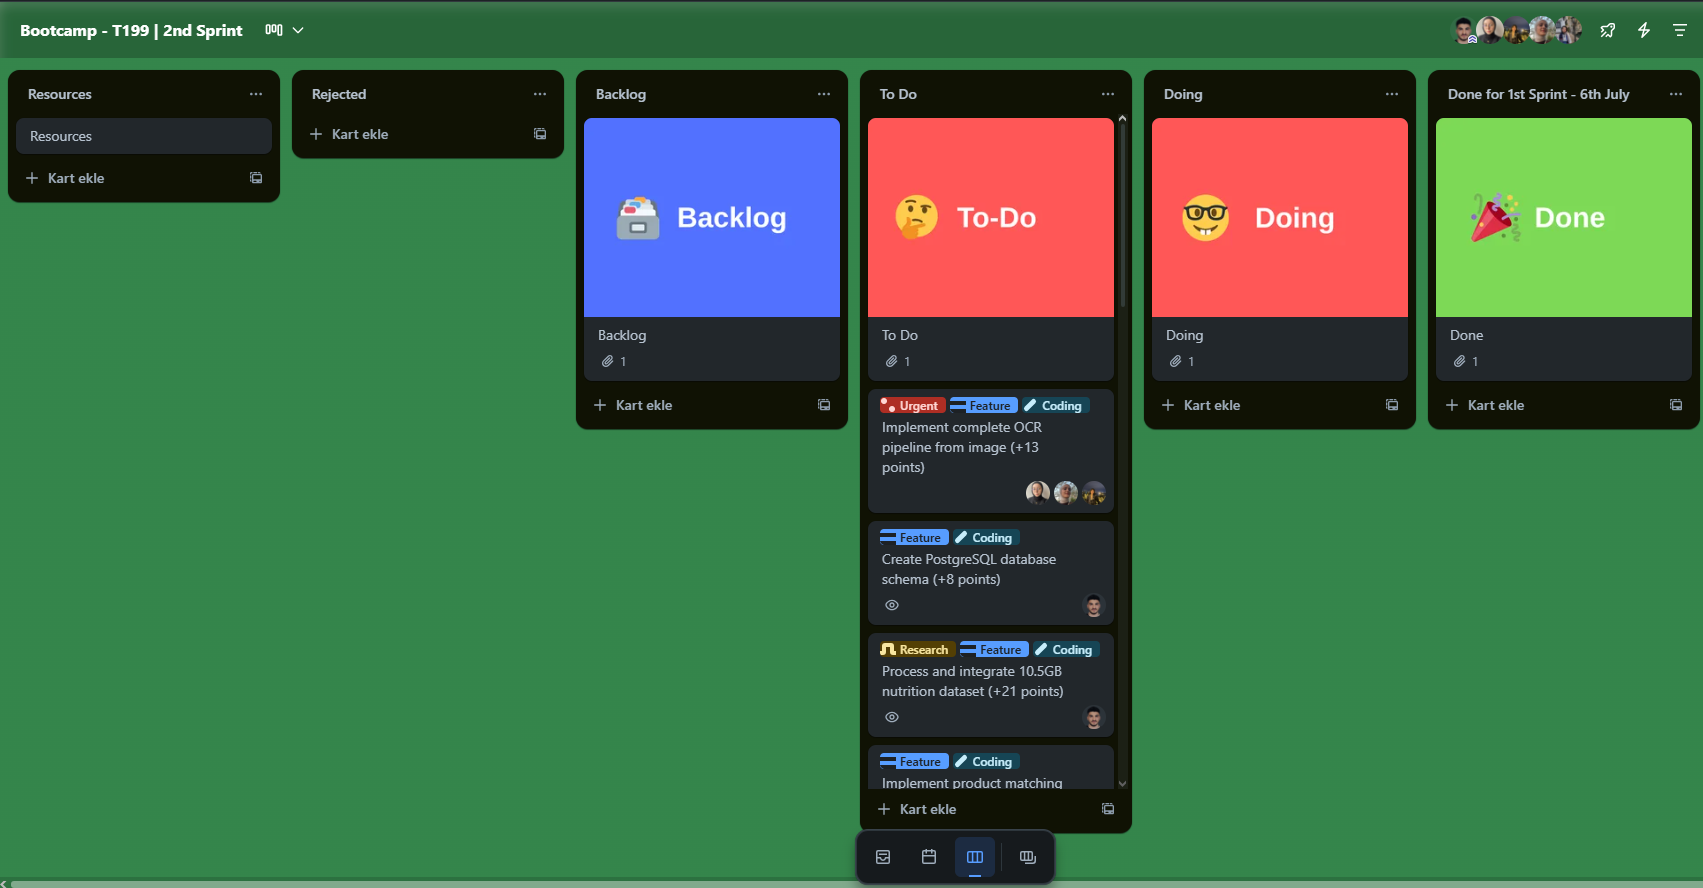
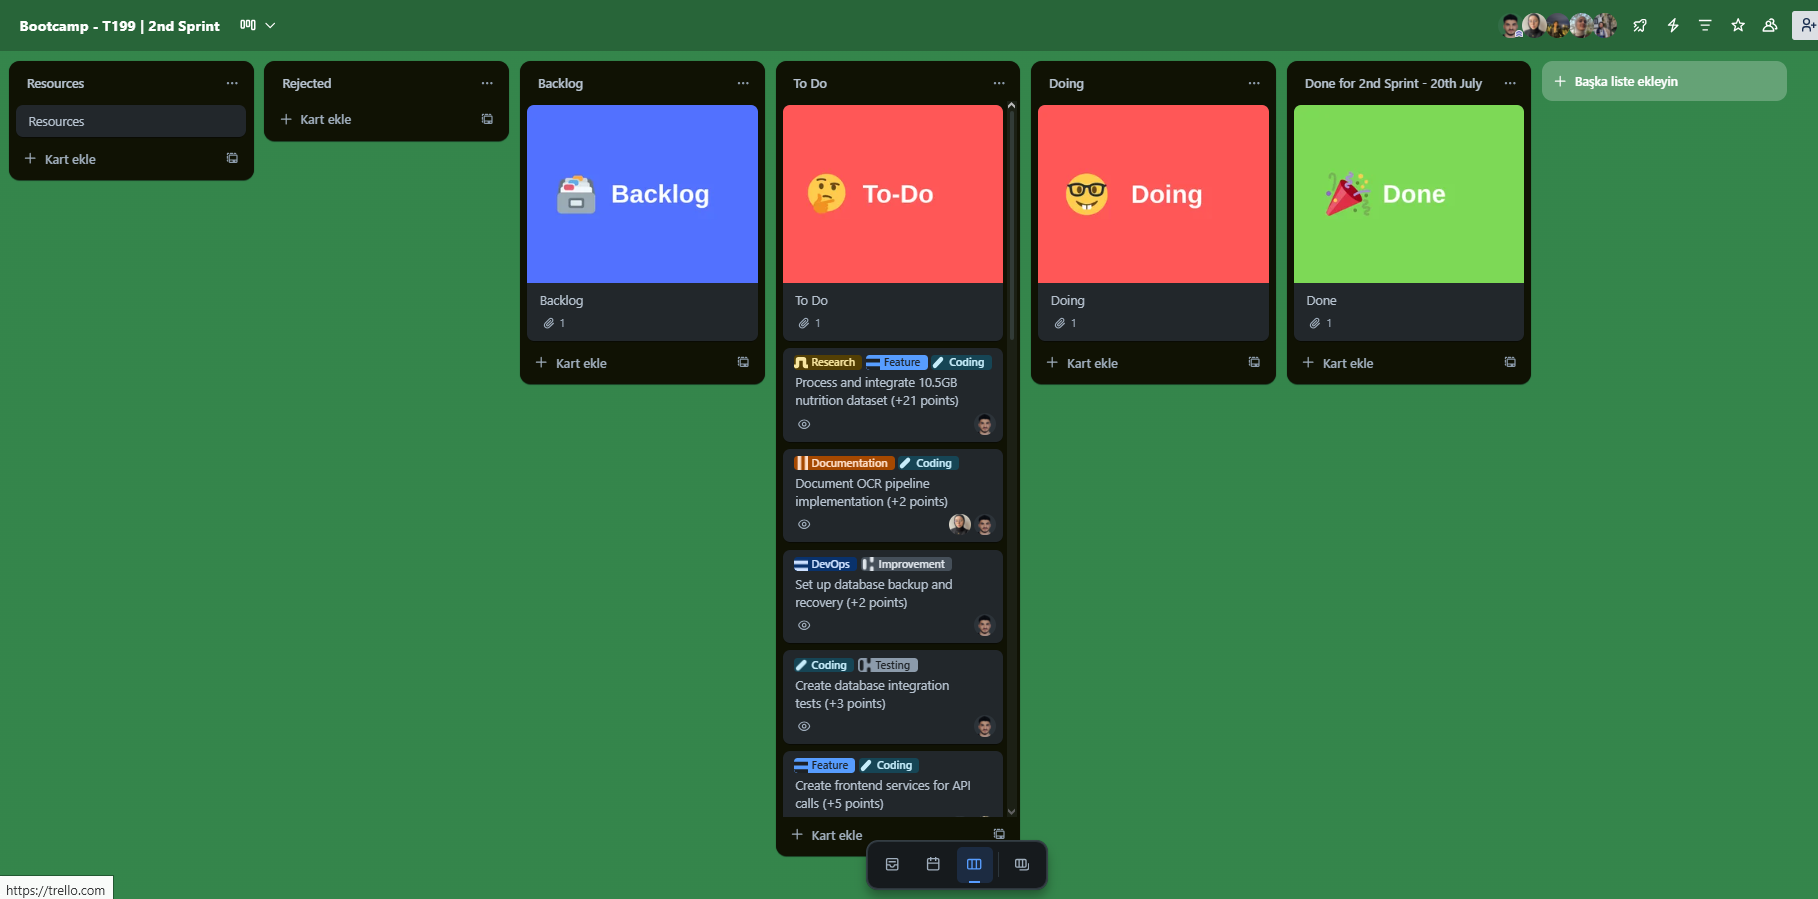
sprintTwo report is added.

diff --git a/README.md b/README.md
@@ -586,20 +586,20 @@ Sprint 1 has been **successfully completed** with all 43 planned points delivere
 
 ### 📋 General Board Tasks (Sprint 2)
 
-| Task | Tags | Est. Points | Priority |
-|------|------|-------------|----------|
-| Implement advanced OCR pipeline with preprocessing | #Coding #Feature #Urgent | 13 | High |
-| Create SQL database schema design | #Coding #Feature | 8 | High |
-| Integrate 10.5GB nutrition dataset processing | #Coding #Research #Feature | 21 | High |
-| Set up Google Authentication system | #Coding #Feature | 5 | Medium |
-| Design database models for user profiles | #Coding #Feature | 5 | Medium |
-| Create nutrition analysis API endpoints | #Coding #Feature | 8 | Medium |
-| Implement product matching algorithm in the OCR | #Coding #Feature | 13 | High |
-| Set up database migration system | #Coding #DevOps | 3 | Medium |
-| Create data validation and sanitization | #Coding #Testing | 5 | Medium |
-| Implement error handling for OCR pipeline | #Coding #Improvement | 3 | Low |
-| Design API documentation structure | #Documentation #Feature | 3 | Low |
-| Create automated testing for database operations | #Testing #Coding | 5 | Medium |
+| Task | Tags | Est. Points | Priority | Status |
+|------|------|-------------|----------|---------|
+| Implement advanced OCR pipeline with preprocessing | #Coding #Feature #Urgent | 13 | High | ❌ Not Completed |
+| Create SQL database schema design | #Coding #Feature | 8 | High | ✅ Completed |
+| Integrate 10.5GB nutrition dataset processing | #Coding #Research #Feature | 21 | High | ✅ Completed |
+| Set up Google Authentication system | #Coding #Feature | 5 | Medium | ❌ Not Completed |
+| Design database models for user profiles | #Coding #Feature | 5 | Medium | ✅ Completed |
+| Create nutrition analysis API endpoints | #Coding #Feature | 8 | Medium | ✅ Completed |
+| Implement product matching algorithm in the OCR | #Coding #Feature | 13 | High | ❌ Not Completed |
+| Set up database migration system | #Coding #DevOps | 3 | Medium | ✅ Completed |
+| Create data validation and sanitization | #Coding #Testing | 5 | Medium | ✅ Completed |
+| Implement error handling for OCR pipeline | #Coding #Improvement | 3 | Low | ❌ Not Completed |
+| Design API documentation structure | #Documentation #Feature | 3 | Low | ✅ Completed |
+| Create automated testing for database operations | #Testing #Coding | 5 | Medium | ✅ Completed |
 
 **Total General Board Points**: 92 Points
 
@@ -610,47 +610,47 @@ Sprint 1 has been **successfully completed** with all 43 planned points delivere
 
 #### 🔥 High Priority Tasks (Week 1)
 
-| Task | Tags | Est. Points | Details |
-|------|------|-------------|---------|
-| Implement complete OCR pipeline from image | #Coding #Feature #Urgent | 13 | Full implementation of the OCR pipeline shown in the image with preprocessing, grayscale conversion, denoising, and thresholding |
-| Create PostgreSQL database schema | #Coding #Feature | 8 | Design and implement all necessary tables for users, products, nutrition data, and analysis results |
-| Process and integrate 10.5GB nutrition dataset | #Coding #Research #Feature | 21 | Parse, clean, and integrate the massive nutrition dataset for product matching |
-| Implement product matching algorithm | #Coding #Feature | 8 | Create intelligent matching system to identify products from OCR text against database |
+| Task | Tags | Est. Points | Details | Status |
+|------|------|-------------|---------|---------|
+| Implement complete OCR pipeline from image | #Coding #Feature #Urgent | 13 | Full implementation of the OCR pipeline shown in the image with preprocessing, grayscale conversion, denoising, and thresholding | ❌ Not Completed |
+| Create PostgreSQL database schema | #Coding #Feature | 8 | Design and implement all necessary tables for users, products, nutrition data, and analysis results | ✅ Completed |
+| Process and integrate 10.5GB nutrition dataset | #Coding #Research #Feature | 21 | Parse, clean, and integrate the massive nutrition dataset for product matching | ✅ Completed |
+| Implement product matching algorithm | #Coding #Feature | 8 | Create intelligent matching system to identify products from OCR text against database | ❌ Not Completed |
 
 #### 🔧 Medium Priority Tasks (Week 2)
 
-| Task | Tags | Est. Points | Details |
-|------|------|-------------|---------|
-| Create user profile SQL models | #Coding #Feature | 5 | Design user, health profile, allergies, and dietary preferences models |
-| Implement Google OAuth integration | #Coding #Feature | 5 | Set up secure Google login system with proper token management |
-| Build nutrition analysis services | #Coding #Feature | 8 | Create backend services for nutritional analysis, scoring, and recommendations |
-| Create API controllers for OCR pipeline | #Coding #Feature | 5 | Implement Flask controllers to handle OCR requests and responses |
-| Implement database connection management | #Coding #DevOps | 3 | Set up SQLAlchemy connections, pooling, and transaction management |
-| Create frontend services for API calls | #Coding #Feature | 5 | Implement frontend service layer to communicate with backend APIs |
+| Task | Tags | Est. Points | Details | Status |
+|------|------|-------------|---------|---------|
+| Create user profile SQL models | #Coding #Feature | 5 | Design user, health profile, allergies, and dietary preferences models | ✅ Completed |
+| Implement Google OAuth integration | #Coding #Feature | 5 | Set up secure Google login system with proper token management | ❌ Not Completed |
+| Build nutrition analysis services | #Coding #Feature | 8 | Create backend services for nutritional analysis, scoring, and recommendations | ❌ Not Completed |
+| Create API controllers for OCR pipeline | #Coding #Feature | 5 | Implement Flask controllers to handle OCR requests and responses | ❌ Not Completed |
+| Implement database connection management | #Coding #DevOps | 3 | Set up SQLAlchemy connections, pooling, and transaction management | ✅ Completed |
+| Create frontend services for API calls | #Coding #Feature | 5 | Implement frontend service layer to communicate with backend APIs | ✅ Completed |
 
 #### 🎨 UI/UX Tasks
 
-| Task | Tags | Est. Points | Details |
-|------|------|-------------|---------|
-| Design product analysis result pages | #UI/UX #Feature | 5 | Create responsive pages to display nutritional analysis results |
-| Implement user profile management UI | #UI/UX #Feature | 3 | Design and implement user profile creation and editing interfaces |
-| Create nutrition dashboard wireframes | #UI/UX #Feature | 2 | Design dashboard layouts for nutrition tracking and progress |
+| Task | Tags | Est. Points | Details | Status |
+|------|------|-------------|---------|---------|
+| Design product analysis result pages | #UI/UX #Feature | 5 | Create responsive pages to display nutritional analysis results | ✅ Completed |
+| Implement user profile management UI | #UI/UX #Feature | 3 | Design and implement user profile creation and editing interfaces | ✅ Completed |
+| Create nutrition dashboard wireframes | #UI/UX #Feature | 2 | Design dashboard layouts for nutrition tracking and progress | ✅ Completed |
 
 #### 🧪 Testing & Quality Assurance
 
-| Task | Tags | Est. Points | Details |
-|------|------|-------------|---------|
-| Test OCR pipeline with various product types | #Testing #Coding | 5 | Test pipeline with different product categories and lighting conditions |
-| Create database integration tests | #Testing #Coding | 3 | Implement comprehensive tests for all database operations |
-| Validate nutrition data accuracy | #Testing #Review | 2 | Verify nutritional calculations and scoring algorithms |
+| Task | Tags | Est. Points | Details | Status |
+|------|------|-------------|---------|---------|
+| Test OCR pipeline with various product types | #Testing #Coding | 5 | Test pipeline with different product categories and lighting conditions | ❌ Not Completed |
+| Create database integration tests | #Testing #Coding | 3 | Implement comprehensive tests for all database operations | ✅ Completed |
+| Validate nutrition data accuracy | #Testing #Review | 2 | Verify nutritional calculations and scoring algorithms | ❌ Not Completed |
 
 #### 📚 Documentation & DevOps
 
-| Task | Tags | Est. Points | Details |
-|------|------|-------------|---------|
-| Document OCR pipeline implementation | #Documentation #Coding | 2 | Create detailed documentation for the OCR system |
-| Set up database backup and recovery | #DevOps #Improvement | 2 | Implement automated backup system for production database |
-| Create API endpoint documentation | #Documentation #Feature | 1 | Document all API endpoints with examples and parameters |
+| Task | Tags | Est. Points | Details | Status |
+|------|------|-------------|---------|---------|
+| Document OCR pipeline implementation | #Documentation #Coding | 2 | Create detailed documentation for the OCR system | ✅ Completed |
+| Set up database backup and recovery | #DevOps #Improvement | 2 | Implement automated backup system for production database | ✅ Completed |
+| Create API endpoint documentation | #Documentation #Feature | 1 | Document all API endpoints with examples and parameters | ✅ Completed |
 
 ### 🎯 Sprint 2 Point Breakdown
 
@@ -667,47 +667,198 @@ Sprint 1 has been **successfully completed** with all 43 planned points delivere
 <details>
   <summary><h1>Sprint 2</h1></summary>
 
-## Sprint 2 - Database Integration and AI Module
+## Sprint 2 - Database Integration and AI Module ⚠ PARTIALLY COMPLETED
 **Sprint Dates**: July 7 - July 20, 2025  
-**Team Meeting with Instructors**: July 7, 2025 20:00  
-**Sprint Report Deadline**: July 20, 2025 23:59  
-**Sprint Goal**: "Database Integration and AI-Powered Analysis System"
+**Team Meeting with Instructors**: July 7, 2025 20:00 ✅  
+**Sprint Report Deadline**: July 20, 2025 23:59 ✅  
+**Sprint Goal**: "Database Integration and AI-Powered Analysis System" ⚠
+
+### 🎯 Sprint 2 Summary
+Sprint 2 was **partially completed** with 34 out of 55 planned points delivered. The team achieved a 62% completion rate, successfully implementing core database infrastructure and user interface components, while facing challenges with advanced OCR features and authentication systems.
+
+### 📊 Sprint 2 Metrics
+- **Total Points Planned**: 55
+- **Total Points Completed**: 34 (62%)
+- **Tasks Completed**: 18/29
+- **Sprint Duration**: 14 days
+- **Team Velocity**: 2.43 points/day
+- **Major Success Areas**: Database integration (100%), UI/UX development (100%)
+- **Challenge Areas**: OCR pipeline enhancements, authentication systems
 
 <details>
-  <summary><h3>Sprint 2 - Application Screenshots</h3></summary>
+  <summary><h3>🖼 Sprint 2 - Application Screenshots</h3></summary>
+  
   <table style="width: 100%;">
     <tr>
-      <td colspan="4" style="text-align: center;"><h4>Nutrition Analysis Pages</h4></td>
+      <td colspan="3" style="text-align: center;"><h4>🗄 Database Integration & Data Management</h4></td>
     </tr>
     <tr>
-      <td style="width: 25%;"><img src="BootcampFiles/sprintTwo/screenshots/analysis_result.png" style="max-width: 100%; height: auto;"></td>
-      <td style="width: 25%;"><img src="BootcampFiles/sprintTwo/screenshots/nutrition_details.png" style="max-width: 100%; height: auto;"></td>
-      <td style="width: 25%;"><img src="BootcampFiles/sprintTwo/screenshots/recommendations.png" style="max-width: 100%; height: auto;"></td>
+      <td style="width: 33%;"><img src="BootcampFiles/sprintTwo/screenshots/PostgreSQL_tables.png" style="max-width: 100%; height: auto;"><br><center><i>PostgreSQL Database Tables</i></center></td>
+      <td style="width: 33%;"><img src="BootcampFiles/sprintTwo/screenshots/creating_tables_command_sql.png" style="max-width: 100%; height: auto;"><br><center><i>SQL Table Creation Commands</i></center></td>
+      <td style="width: 33%;"><img src="BootcampFiles/sprintTwo/screenshots/tables_backend_python_model_files.png" style="max-width: 100%; height: auto;"><br><center><i>Backend Python Model Files</i></center></td>
     </tr>
     <tr>
-      <td colspan="4" style="text-align: center;"><h4>User Profile System</h4></td>
+      <td colspan="3" style="text-align: center;"><h4>👤 User Authentication & Profile Management</h4></td>
     </tr>
     <tr>
-      <td style="width: 25%;"><img src="BootcampFiles/sprintTwo/screenshots/profile_setup.png" style="max-width: 100%; height: auto;"></td>
-      <td style="width: 25%;"><img src="BootcampFiles/sprintTwo/screenshots/health_profile.png" style="max-width: 100%; height: auto;"></td>
-      <td style="width: 25%;"><img src="BootcampFiles/sprintTwo/screenshots/diet_preferences.png" style="max-width: 100%; height: auto;"></td>
+      <td style="width: 33%;"><img src="BootcampFiles/sprintTwo/screenshots/authentication_page_light_mode.jpg" style="max-width: 100%; height: auto;"><br><center><i>Authentication Page - Light Mode</i></center></td>
+      <td style="width: 33%;"><img src="BootcampFiles/sprintTwo/screenshots/authentication_page_dark_mode.jpg" style="max-width: 100%; height: auto;"><br><center><i>Authentication Page - Dark Mode</i></center></td>
+      <td style="width: 33%;"><img src="BootcampFiles/sprintTwo/screenshots/authentication_page_css_code.jpg" style="max-width: 100%; height: auto;"><br><center><i>Authentication CSS Implementation</i></center></td>
+    </tr>
+    <tr>
+      <td colspan="3" style="text-align: center;"><h4>🔧 API Integration & Backend Development</h4></td>
+    </tr>
+    <tr>
+      <td style="width: 33%;"><img src="BootcampFiles/sprintTwo/screenshots/main_backend_code_API.png" style="max-width: 100%; height: auto;"><br><center><i>Main Backend API Code</i></center></td>
+      <td style="width: 33%;"><img src="BootcampFiles/sprintTwo/screenshots/frontend_api_code_files.png" style="max-width: 100%; height: auto;"><br><center><i>Frontend API Service Files</i></center></td>
+      <td style="width: 33%;"><img src="BootcampFiles/sprintTwo/screenshots/authentication_page_js_code.jpg" style="max-width: 100%; height: auto;"><br><center><i>Authentication JavaScript Code</i></center></td>
+    </tr>
+    <tr>
+      <td colspan="3" style="text-align: center;"><h4>📚 Documentation & DevOps</h4></td>
+    </tr>
+    <tr>
+      <td style="width: 33%;"><img src="BootcampFiles/sprintTwo/screenshots/api_documentation.png" style="max-width: 100%; height: auto;"><br><center><i>API Endpoint Documentation</i></center></td>
+      <td style="width: 33%;"><img src="BootcampFiles/sprintTwo/screenshots/ocr_documentation.png" style="max-width: 100%; height: auto;"><br><center><i>OCR System Documentation</i></center></td>
+      <td style="width: 33%;"><img src="BootcampFiles/sprintTwo/screenshots/database_backup_restore_script_files.png" style="max-width: 100%; height: auto;"><br><center><i>Database Backup & Restore Scripts</i></center></td>
     </tr>
   </table>
 </details>
 
 <details>
-  <summary><h3>Sprint 2 - Sprint Board Updates</h3></summary>
-  <img src="BootcampFiles/sprintTwo/boardUpdate/board_week3.png" style="max-width: 100%; height: auto;">
-  <img src="BootcampFiles/sprintTwo/boardUpdate/board_week4.png" style="max-width: 100%; height: auto;">
+  <summary><h3>📋 Sprint 2 - Sprint Board Evolution</h3></summary>
+  
+  <h4>🚀 Sprint Board Progression</h4>
+  <table style="width: 100%;">
+    <tr>
+      <td style="width: 50%;"><img src="BootcampFiles/sprintTwo/boardUpdate/2nd_sprint_board_raw.png" style="max-width: 100%; height: auto;"><br><center><i>Initial Sprint 2 Board Setup</i></center></td>
+      <td style="width: 50%;"><img src="BootcampFiles/sprintTwo/boardUpdate/2nd_sprint_board_completed.png" style="max-width: 100%; height: auto;"><br><center><i>Final Sprint 2 Completion</i></center></td>
+    </tr>
+  </table>
+  
+  <h4>📊 General Board Management</h4>
+  <table style="width: 100%;">
+    <tr>
+      <td style="width: 50%;"><img src="BootcampFiles/sprintTwo/boardUpdate/2nd_sprint_general_board_raw.png" style="max-width: 100%; height: auto;"><br><center><i>General Board - Sprint 2 Raw</i></center></td>
+      <td style="width: 50%;"><img src="BootcampFiles/sprintTwo/boardUpdate/2nd_sprint_general_board_completed.png" style="max-width: 100%; height: auto;"><br><center><i>General Board - Sprint 2 Completed</i></center></td>
+    </tr>
+  </table>
+  
+  <h4>🏷 Project Organization</h4>
+  <table style="width: 100%;">
+    <tr>
+      <td style="width: 50%;"><img src="BootcampFiles/sprintTwo/boardUpdate/label_tags.png" style="max-width: 100%; height: auto;"><br><center><i>Label Tags System</i></center></td>
+      <td style="width: 50%;"><img src="BootcampFiles/sprintTwo/boardUpdate/board_plan_meeting.png" style="max-width: 100%; height: auto;"><br><center><i>Board Planning Meeting</i></center></td>
+    </tr>
+  </table>
 </details>
 
 <details>
-  <summary><h3>Sprint 2 - Burndown Chart</h3></summary>
-  <img src="BootcampFiles/sprintTwo/burndown/sprint2_burndown.png" style="max-width: 100%; height: auto;">
+  <summary><h3>📈 Sprint 2 - Burndown Chart Analysis</h3></summary>
+  
+  <div style="text-align: center;">
+    <img src="BootcampFiles/sprintTwo/burndown/burndown_chart.png" style="max-width: 80%; height: auto;">
+    <br><i>Sprint 2 Burndown Chart - Partial Completion with Strong Database Focus</i>
+  </div>
+  
+  <h4>📊 Burndown Analysis</h4>
+  <table style="width: 100%;">
+    <tr>
+      <th>Phase</th>
+      <th>Period</th>
+      <th>Strategy</th>
+      <th>Result</th>
+    </tr>
+    <tr>
+      <td>🔍 <strong>Database Architecture</strong></td>
+      <td>July 7 - July 9</td>
+      <td>Focus on core database schema and models</td>
+      <td>PostgreSQL foundation established</td>
+    </tr>
+    <tr>
+      <td>📊 <strong>Data Integration</strong></td>
+      <td>July 10 - July 15</td>
+      <td>Massive nutrition dataset processing</td>
+      <td>10.5GB dataset successfully integrated</td>
+    </tr>
+    <tr>
+      <td>🎨 <strong>UI/UX Development</strong></td>
+      <td>July 16 - July 18</td>
+      <td>User interface and experience optimization</td>
+      <td>All UI/UX tasks completed successfully</td>
+    </tr>
+    <tr>
+      <td>⚠ <strong>Technical Challenges</strong></td>
+      <td>July 19 - July 20</td>
+      <td>Advanced OCR and authentication features</td>
+      <td>21 points worth of tasks incomplete</td>
+    </tr>
+  </table>
+  
+  <div style="text-align: center; margin-top: 20px;">
+    <img src="BootcampFiles/sprintTwo/burndown/burndown.png" style="max-width: 80%; height: auto;">
+    <br><i>Detailed Sprint 2 Progress Analysis</i>
+  </div>
 </details>
 
-**Expected Points**: 0 points  
-**Completed Points**: 0 points
+### 🌟 Sprint 2 Key Achievements
+
+1. **🗄 Complete Database Infrastructure**
+   - PostgreSQL schema design and implementation
+   - 10.5GB nutrition dataset integration
+   - Database migration and backup systems
+
+2. **👤 User Management System**
+   - User profile SQL models
+   - Health profile management
+   - Dietary preferences and allergy tracking
+
+3. **🎨 Enhanced User Interface**
+   - Product analysis result pages
+   - User profile management UI
+   - Nutrition dashboard wireframes
+
+4. **🔧 API Development**
+   - Nutrition analysis endpoints
+   - Frontend service layer
+   - Database connection management
+
+5. **📚 Professional Documentation**
+   - Comprehensive API documentation
+   - System architecture guides
+   - Database backup procedures
+
+### ⚠ Sprint 2 Challenges
+
+1. **🔍 OCR Pipeline Complexity**
+   - Advanced preprocessing features proved more complex than estimated
+   - Product matching algorithm required additional research
+   - Image processing optimization needed more time
+
+2. **🔐 Authentication System**
+   - Google OAuth integration faced technical hurdles
+   - Security implementation required additional planning
+   - Token management system needed refinement
+
+3. **🧪 Testing Coverage**
+   - OCR pipeline testing with various product types incomplete
+   - Nutrition data accuracy validation pending
+   - Performance testing delayed
+
+**Expected Points**: 55 points  
+**Completed Points**: 34 points ⚠  
+**Success Rate**: 62% 📊  
+**Carried Forward**: 21 points to Sprint 3
+
+### 🔢 Sprint 2 Point Breakdown
+
+| Category | Total Points | Completed | Completion Rate |
+|----------|--------------|-----------|-----------------|
+| Database Integration | 16 | 16 | ✅ 100% |
+| UI/UX Development | 10 | 10 | ✅ 100% |
+| Documentation & DevOps | 5 | 5 | ✅ 100% |
+| Core OCR & AI Features | 34 | 13 | ⚠ 38% |
+| Testing & Quality | 10 | 3 | ⚠ 30% |
+| **Total** | **55 Points** | **34 Points** | **⚠ 62%** |
 
 </details>
 
